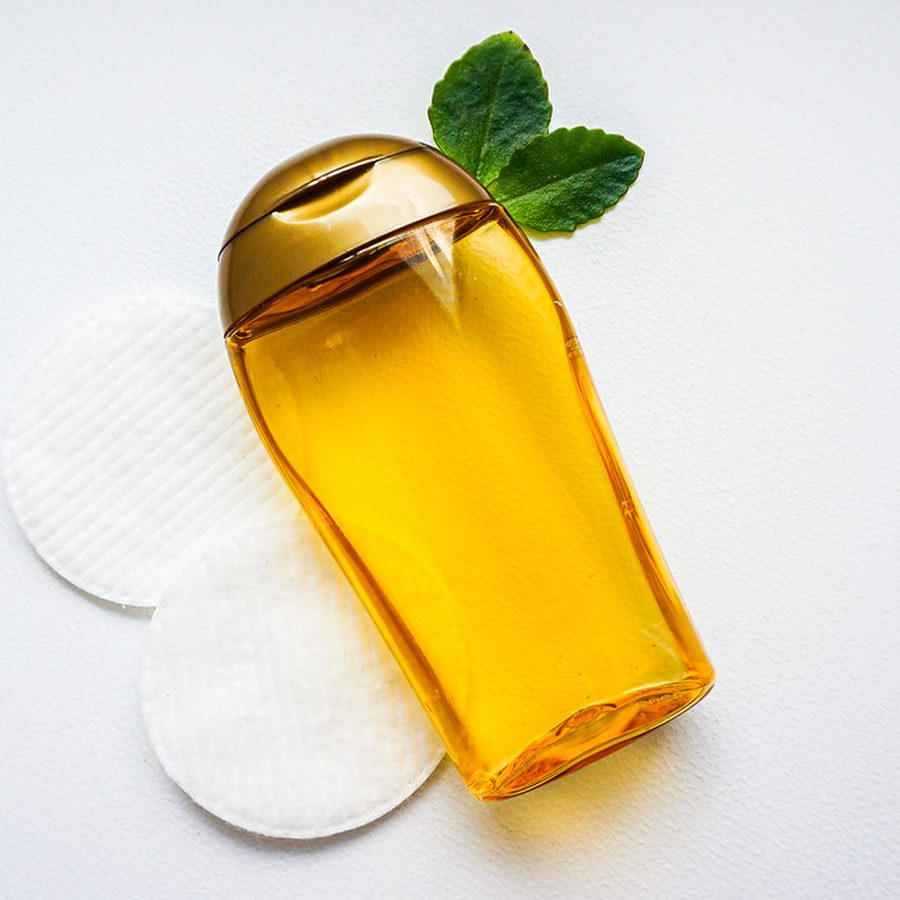
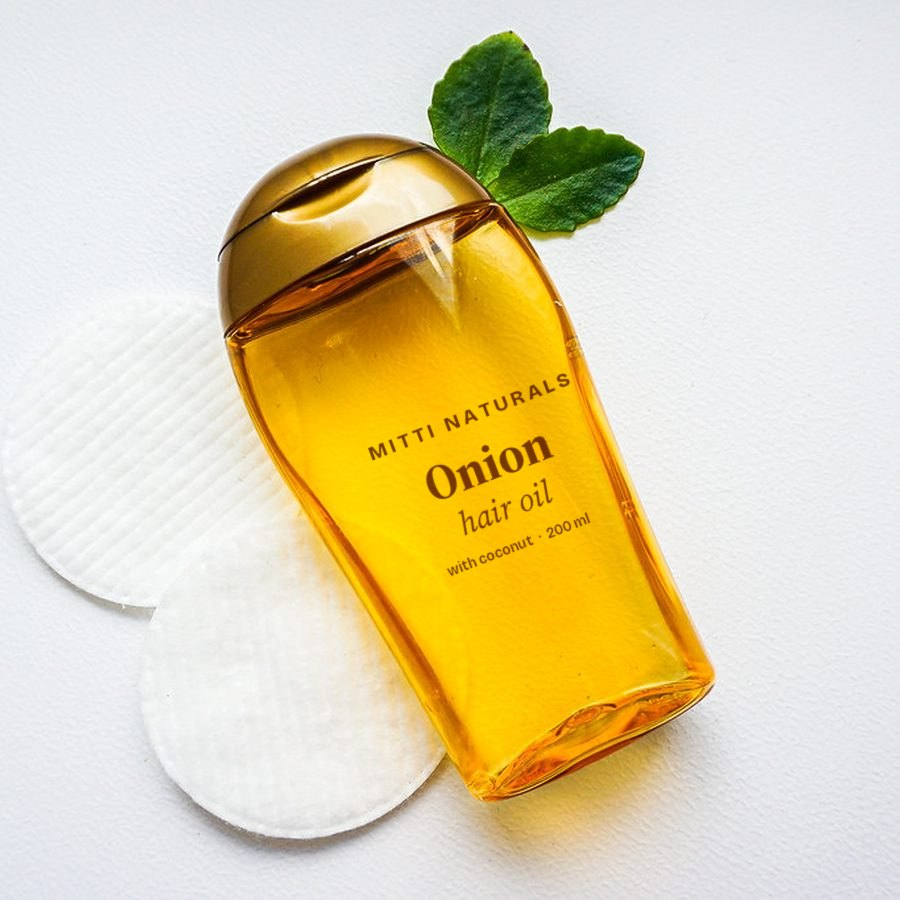
Photos: owner-supplied images for 10 products, fictional brand labels on plain packaging, credits
- scripts/import_manual_photos.py crops/resizes owner photos to the catalogue format
- scripts/brand_labels.py prints each product's fictional brand on plain packaging (originals kept)
- IMAGE_CREDITS marks AI-generated, Pexels and edited photos; 107/110 products now have photos

diff --git a/scripts/brand_labels.py b/scripts/brand_labels.py
@@ -1,0 +1,181 @@
+"""Print the store's fictional brand names onto plain product packaging in the photos.
+
+Some product photos show blank tubes, bottles or devices. This script adds a label in the
+product's own (invented) brand and name so the photo matches its listing. The unedited photo
+is kept in media/products/originals/<slug>.jpg and every run starts from that original, so the
+script is safe to run again. Ink is blended with the photo's own shading so it reads as print.
+
+Run from the project root:  .venv\\Scripts\\python.exe scripts\\brand_labels.py
+Every result must be checked by eye afterwards.
+"""
+
+import shutil
+from pathlib import Path
+
+import numpy as np
+from PIL import Image, ImageDraw, ImageFilter, ImageFont
+
+ROOT = Path(__file__).resolve().parent.parent
+PRODUCTS = ROOT / "media" / "products"
+ORIGINALS = PRODUCTS / "originals"
+DISPLAY = ROOT / "static" / "fonts" / "bricolage-grotesque-latin-standard-normal.woff2"
+SERIF = ROOT / "static" / "fonts" / "source-serif-4-latin-opsz-normal.woff2"
+SERIF_ITALIC = ROOT / "static" / "fonts" / "source-serif-4-latin-opsz-italic.woff2"
+
+
+def font(kind: str, size: int, weight: int = 700, width: int = 100) -> ImageFont.FreeTypeFont:
+    """Load one of the store's variable fonts at a given weight (and width for Bricolage)."""
+    if kind == "display":
+        f = ImageFont.truetype(str(DISPLAY), size)
+        f.set_variation_by_axes([min(max(size, 12), 96), weight, width])  # opsz, wght, wdth
+    else:
+        f = ImageFont.truetype(str(SERIF_ITALIC if kind == "italic" else SERIF), size)
+        axes = f.get_variation_axes()
+        values = []
+        for axis in axes:
+            name = axis["name"].decode() if isinstance(axis["name"], bytes) else axis["name"]
+            values.append(min(max(size, axis["minimum"]), axis["maximum"]) if "ptical" in name else weight)
+        f.set_variation_by_axes(values)
+    return f
+
+
+def draw_line(layer: Image.Image, text: str, fnt, centre: tuple[int, int], colour, tracking: float = 0.0) -> None:
+    """Draw one centred line of text with optional letter spacing (in em)."""
+    draw = ImageDraw.Draw(layer)
+    extra = tracking * fnt.size
+    widths = [draw.textlength(ch, font=fnt) for ch in text]
+    total = sum(widths) + extra * (len(text) - 1)
+    x = centre[0] - total / 2
+    for ch, w in zip(text, widths):
+        draw.text((x, centre[1]), ch, font=fnt, fill=colour, anchor="lm")
+        x += w + extra
+
+
+def apply_label(base: Image.Image, spec: dict) -> Image.Image:
+    """Render the spec's lines on a transparent layer, rotate/blur it, and blend into the photo."""
+    layer = Image.new("RGBA", base.size, (0, 0, 0, 0))
+    for line in spec["lines"]:
+        text, kind, size, weight, dy = line[:5]
+        opts = line[5] if len(line) > 5 else {}
+        fnt = font(kind, size, weight, opts.get("width", 100))
+        colour = opts.get("colour", spec["ink"])
+        draw_line(layer, text, fnt, (spec["at"][0], spec["at"][1] + dy), colour, opts.get("tracking", 0.0))
+    if spec.get("angle"):
+        layer = layer.rotate(spec["angle"], resample=Image.Resampling.BICUBIC, center=spec["at"])
+    layer = layer.filter(ImageFilter.GaussianBlur(spec.get("blur", 0.45)))
+
+    photo = np.asarray(base, dtype=np.float32) / 255.0
+    paint = np.asarray(layer, dtype=np.float32) / 255.0
+    rgb, alpha = paint[..., :3], paint[..., 3:4] * spec.get("opacity", 0.92)
+    if spec.get("mode", "multiply") == "multiply":  # dark ink on a light surface
+        out = photo * (1 - alpha) + photo * rgb * alpha
+    else:  # light ink on a dark surface: follow the surface's own light and shade
+        shade = 0.55 + 0.9 * photo.mean(axis=2, keepdims=True)
+        out = photo * (1 - alpha) + np.clip(rgb * shade, 0, 1) * alpha
+    return Image.fromarray(np.clip(out * 255 + 0.5, 0, 255).astype(np.uint8))
+
+
+# slug -> label spec. "at" = centre of the label (900 px image), dy = line offset from that centre.
+LABELS = {
+    "neem-ash-neem-and-tea-tree-face-wash": {
+        "at": (452, 420), "ink": (38, 78, 52), "lines": [
+            ("NEEM & ASH", "display", 30, 760, -70, {"tracking": 0.14, "width": 100}),
+            ("Neem and", "serif", 40, 600, -10),
+            ("Tea Tree", "serif", 40, 600, 34),
+            ("face wash", "italic", 30, 400, 86, {"colour": (70, 100, 78)}),
+            ("for oily, acne-prone skin  ·  100 ml", "display", 14, 450, 136, {"colour": (90, 110, 96)}),
+        ]},
+    "dewlab-spf-50-sunscreen-gel": {
+        "at": (432, 400), "ink": (32, 30, 40), "lines": [
+            ("dewlab", "display", 46, 780, -86, {"width": 100}),
+            ("SPF 50", "display", 64, 800, -12, {"width": 75, "colour": (214, 104, 74)}),
+            ("PA++++", "display", 22, 600, 40, {"tracking": 0.12, "colour": (214, 104, 74)}),
+            ("Sunscreen gel", "serif", 26, 500, 88),
+            ("broad spectrum  ·  no white cast  ·  50 g", "display", 13, 450, 128, {"colour": (95, 90, 100)}),
+        ]},
+    "dewlab-10-vitamin-c-face-serum": {
+        "at": (460, 565), "ink": (45, 35, 30), "blur": 0.6, "lines": [
+            ("dewlab", "display", 30, 780, -48),
+            ("Vitamin C 10%", "display", 19, 650, -8, {"colour": (176, 92, 40)}),
+            ("face serum", "italic", 18, 400, 22),
+            ("30 ml", "display", 12, 500, 52, {"colour": (90, 80, 70)}),
+        ]},
+    "mitti-naturals-sulphate-free-shampoo": {
+        "at": (418, 500), "ink": (250, 250, 244), "mode": "light", "blur": 1.4, "opacity": 0.97, "lines": [
+            ("MITTI", "display", 92, 800, -96, {"tracking": 0.06, "width": 80}),
+            ("NATURALS", "display", 34, 700, -26, {"tracking": 0.3}),
+            ("sulphate-free", "serif", 42, 600, 44),
+            ("shampoo", "serif", 42, 600, 92),
+            ("250 ml", "display", 20, 600, 150, {"tracking": 0.1}),
+        ]},
+    "mitti-naturals-onion-hair-oil": {
+        "at": (490, 470), "ink": (96, 40, 14), "angle": 21, "opacity": 0.86, "lines": [
+            ("MITTI NATURALS", "display", 20, 700, -58, {"tracking": 0.2}),
+            ("Onion", "serif", 50, 700, -8),
+            ("hair oil", "italic", 32, 400, 40),
+            ("with coconut  ·  200 ml", "display", 14, 500, 80),
+        ]},
+    "kesari-botanicals-kumkumadi-face-oil": {
+        "at": (600, 610), "ink": (104, 24, 20), "blur": 0.6, "opacity": 0.9, "lines": [
+            ("KESARI", "display", 28, 800, -36, {"tracking": 0.22}),
+            ("Kumkumadi", "serif", 32, 600, 4),
+            ("face oil  ·  15 ml", "display", 14, 500, 38),
+        ]},
+    "ferrow-snap-24-mirrorless-camera": {
+        "at": (548, 268), "ink": (214, 214, 210), "mode": "light", "blur": 0.5, "opacity": 0.88, "lines": [
+            ("FERROW", "display", 24, 700, 0, {"tracking": 0.28, "width": 100}),
+        ]},
+    "steelwell-ro-uv-water-purifier": {
+        "at": (262, 560), "ink": (40, 46, 60), "blur": 0.55, "lines": [
+            ("steelwell", "display", 36, 760, -18),
+            ("RO + UV purifier", "display", 15, 500, 18, {"tracking": 0.06, "colour": (90, 96, 110)}),
+        ]},
+    "hearthline-indoor-security-camera-2k": {
+        "at": (446, 700), "ink": (92, 92, 96), "blur": 0.6, "lines": [
+            ("hearthline", "display", 22, 650, 0, {"tracking": 0.04}),
+        ]},
+    "groomwell-cordless-beard-trimmer": {
+        "at": (432, 650), "ink": (200, 178, 156), "mode": "light", "angle": 90, "blur": 0.5, "opacity": 0.85, "lines": [
+            ("GROOMWELL", "display", 20, 700, 0, {"tracking": 0.26}),
+        ]},
+    "lumora-55-inch-qled-smart-tv": {
+        "at": (450, 0), "ink": (170, 170, 176), "mode": "light", "blur": 0.4, "opacity": 0.9, "lines": [
+            ("LUMORA", "display", 11, 700, 0, {"tracking": 0.3}),
+        ]},
+}
+
+
+def tv_bezel_y(image: Image.Image, x: int = 450) -> int:
+    """Find the middle of the TV's bottom bezel (the darkest short run of rows below the screen)."""
+    column = np.asarray(image.convert("L"), dtype=np.float32)[560:760, x - 60:x + 60].mean(axis=1)
+    dark = np.where(column < 70)[0]
+    if not len(dark):
+        return 698
+    runs, start = [], dark[0]
+    for a, b in zip(dark, dark[1:]):
+        if b != a + 1:
+            runs.append((start, a)); start = b
+    runs.append((start, dark[-1]))
+    lo, hi = runs[-1]
+    return 560 + (lo + hi) // 2
+
+
+def main() -> None:
+    ORIGINALS.mkdir(parents=True, exist_ok=True)
+    for slug, spec in LABELS.items():
+        target = PRODUCTS / f"{slug}.jpg"
+        original = ORIGINALS / f"{slug}.jpg"
+        if not original.exists():
+            if not target.exists():
+                print(f"missing photo: {slug}")
+                continue
+            shutil.copy2(target, original)
+        base = Image.open(original).convert("RGB")
+        if slug.startswith("lumora"):
+            spec = {**spec, "at": (450, tv_bezel_y(base))}
+        apply_label(base, spec).save(target, "JPEG", quality=86, optimize=True, progressive=True)
+        print(f"labelled {slug}")
+
+
+if __name__ == "__main__":
+    main()

diff --git a/scripts/import_manual_photos.py b/scripts/import_manual_photos.py
@@ -1,0 +1,46 @@
+"""Copy hand-picked product photos from media/manual_photos/ into the catalogue.
+
+Each photo is centre-cropped to a square and resized to 900 px JPEG, exactly like the
+other product images, and saved as media/products/<product-slug>.jpg.
+Run from the project root:  .venv\\Scripts\\python.exe scripts\\import_manual_photos.py
+Then run `python manage.py seed_demo` so the products point at the new files.
+"""
+
+from pathlib import Path
+
+from PIL import Image, ImageOps
+
+ROOT = Path(__file__).resolve().parent.parent
+SOURCE = ROOT / "media" / "manual_photos"
+TARGET = ROOT / "media" / "products"
+
+# file in media/manual_photos  ->  (product slug, horizontal crop centre 0..1)
+PHOTOS = {
+    "Dewy White Skincare Tube with Green Leaves.png": ("neem-ash-neem-and-tea-tree-face-wash", 0.5),
+    "Minimalist Coral-Capped Lotion Tube.png": ("dewlab-spf-50-sunscreen-gel", 0.5),
+    "Matte Black Mirrorless Camera.png": ("ferrow-snap-24-mirrorless-camera", 0.5),
+    "Modern TV with Gradient Wave Display.png": ("lumora-55-inch-qled-smart-tv", 0.5),
+    "Modern Wall-Mounted Water Purifier.png": ("steelwell-ro-uv-water-purifier", 0.5),
+    "Modern White Security Camera on Wooden Shelf.png": ("hearthline-indoor-security-camera-2k", 0.5),
+    "Polished Wooden Ludo Board and Dice.png": ("gameshala-ludo-and-snakes-and-ladders-2-in-1", 0.5),
+    "Sleek Charcoal Beard Trimmer Set.png": ("groomwell-cordless-beard-trimmer", 0.5),
+    "Sleek Smartphone with Screen Protector.png": ("shieldguard-tempered-glass-screen-protector-for-nova", 0.5),
+    "pexels-kindelmedia-9029794.jpg": ("tinkerbox-solar-robot-science-kit", 0.5),
+}
+
+
+def main() -> None:
+    TARGET.mkdir(parents=True, exist_ok=True)
+    for filename, (slug, centre_x) in PHOTOS.items():
+        source = SOURCE / filename
+        if not source.exists():
+            print(f"missing: {filename}")
+            continue
+        image = ImageOps.exif_transpose(Image.open(source)).convert("RGB")
+        image = ImageOps.fit(image, (900, 900), Image.Resampling.LANCZOS, centering=(centre_x, 0.5))
+        image.save(TARGET / f"{slug}.jpg", "JPEG", quality=84, optimize=True, progressive=True)
+        print(f"saved {slug}.jpg")
+
+
+if __name__ == "__main__":
+    main()

diff --git a/docs/IMAGE_CREDITS.md b/docs/IMAGE_CREDITS.md
@@ -2,7 +2,12 @@
 
 Product photos are openly licensed images from [Openverse](https://openverse.org), [Wikimedia Commons](https://commons.wikimedia.org) and [Pexels](https://www.pexels.com), downloaded once into `media/products/`.
 Each photo was cropped to a square and resized to 900 px. The products pictured stand in for the fictional brands sold in this demo store; photos were chosen to avoid visible real brand logos, and any small marks that remain belong to their owners.
+Nine photos were AI-generated and supplied by the project owner, and one comes from Pexels (Kindel Media, Pexels License); these are marked in the table.
 Products without a suitable photo use the store's placeholder (`static/img/product-placeholder.svg`).
+
+**Edits.** Eleven photos show plain packaging or unbranded devices, so `scripts/brand_labels.py` printed the product's own fictional brand and name on them
+(for example "dewlab SPF 50" on the sunscreen tube). The unedited files are kept in `media/products/originals/`. One router photo had the maker's name removed.
+All edited photos are marked "edited" below. Manual photos are imported with `scripts/import_manual_photos.py`.
 
 | Category | Product (demo listing) | Photo | Creator | Licence |
 |---|---|---|---|---|
@@ -10,12 +15,12 @@ Products without a suitable photo use the store's placeholder (`static/img/produ
 | Electronics | Sonvale Field 700 Over-Ear Headphones | [Close-up image of a pair of over-ear headphones with red accents and a](https://wordpress.org/photos/photo/18766603c1/) | Nilo Velez | [CC0 1.0](https://creativecommons.org/publicdomain/zero/1.0/) |
 | Electronics | Sonvale Pocket Bluetooth Speaker | [A portable Bluetooth speaker with great bass? Yep! The ARCHEER A320. M](https://www.flickr.com/photos/22473198@N00/33573968431) | HighTechDad | [CC BY 2.0](https://creativecommons.org/licenses/by/2.0/) |
 | Electronics | Lumora 43-inch 4K Smart TV | [The living room will be televised](https://www.flickr.com/photos/58435577@N00/159762082) | diametrik | [CC BY 2.0](https://creativecommons.org/licenses/by/2.0/) |
-| Electronics | Lumora 55-inch QLED Smart TV | placeholder | — | — |
+| Electronics | Lumora 55-inch QLED Smart TV | AI-generated image supplied by the project owner (Krishna) (edited: fictional brand label added) | Krishna (project owner), AI-generated | Owner-supplied, AI-generated; free to use in this project |
 | Electronics | Voltrek 20000 mAh Power Bank | [Infinite Power!....Problem?](https://www.flickr.com/photos/52365139@N05/14627546992) | dvanzuijlekom | [CC BY-SA 2.0](https://creativecommons.org/licenses/by-sa/2.0/) |
-| Electronics | Ferrow Snap 24 Mirrorless Camera | placeholder | — | — |
+| Electronics | Ferrow Snap 24 Mirrorless Camera | AI-generated image supplied by the project owner (Krishna) (edited: fictional brand label added) | Krishna (project owner), AI-generated | Owner-supplied, AI-generated; free to use in this project |
 | Electronics | Ferrow Trail Action Camera | [black action camera white laptop](https://www.rawpixel.com/image/3303210/free-photo-image-video-camera-macbook-gopro) | Unknown | [CC0 1.0](https://creativecommons.org/publicdomain/zero/1.0/) |
 | Electronics | Hearthline Smart Plug, Pack of 2 | [Smart plug adapter front view with power button.jpg](https://commons.wikimedia.org/wiki/File:Smart_plug_adapter_front_view_with_power_button.jpg) | Sokolikmawwer0 | [CC BY-SA 3.0](https://creativecommons.org/licenses/by-sa/3.0) |
-| Electronics | Hearthline Indoor Security Camera 2K | placeholder | — | — |
+| Electronics | Hearthline Indoor Security Camera 2K | AI-generated image supplied by the project owner (Krishna) (edited: fictional brand label added) | Krishna (project owner), AI-generated | Owner-supplied, AI-generated; free to use in this project |
 | Electronics | Sonvale Soundbar 2.1 with Subwoofer | placeholder | — | — |
 | Fashion and Clothing | Indigo Loom Men's Slim-Fit Oxford Shirt | [Camisade puño doble.jpg](https://commons.wikimedia.org/wiki/File:Camisade_pu%C3%B1o_doble.jpg) | Incal | [CC BY-SA 3.0](https://creativecommons.org/licenses/by-sa/3.0) |
 | Fashion and Clothing | Indigo Loom Women's Block-Print Straight Kurta | [Traditional white embroidered kurta](https://www.rawpixel.com/image/9004113/coat) | artinstitutechicago | [CC0 1.0](https://creativecommons.org/publicdomain/zero/1.0/) |
@@ -50,16 +55,16 @@ Products without a suitable photo use the store's placeholder (`static/img/produ
 | Books and Stationery | Scribe Supply Watercolour Set, 24 Colours | [36 Pan Palette White Nights Russian Watercolour Paint Set](https://www.flickr.com/photos/53499099@N00/32522989847) | CharmaineZoe's Marvelous Melange | [CC BY 2.0](https://creativecommons.org/licenses/by/2.0/) |
 | Books and Stationery | Scribe Supply Bamboo Desk Organiser | [Wooden desk organizer, pencil holder #2](https://www.flickr.com/photos/47257185@N03/30229628306) | ZERGE_VIOLATOR | [CC BY 2.0](https://creativecommons.org/licenses/by/2.0/) |
 | Books and Stationery | Margin Books Tara and the Tiger Moth (Picture Book) | [***](https://www.flickr.com/photos/30845197@N00/53846192367) | RG TLV | [CC BY 2.0](https://creativecommons.org/licenses/by/2.0/) |
-| Beauty and Personal Care | Neem & Ash Neem and Tea Tree Face Wash | placeholder | — | — |
-| Beauty and Personal Care | Dewlab 10% Vitamin C Face Serum | [Dropper bottle, blank retro label](https://www.rawpixel.com/image/11515770/dropper-bottle-blank-retro-label) | Unknown | [CC0 1.0](https://creativecommons.org/publicdomain/zero/1.0/) |
-| Beauty and Personal Care | Dewlab SPF 50 Sunscreen Gel | placeholder | — | — |
-| Beauty and Personal Care | Kesari Botanicals Kumkumadi Face Oil | [Free essential oil image. Cosmetic](https://www.rawpixel.com/image/5910591/photo-image-flower-public-domain-free) | Unknown | [CC0 1.0](https://creativecommons.org/publicdomain/zero/1.0/) |
-| Beauty and Personal Care | Mitti Naturals Onion Hair Oil | [Haare Öl - Hair oil](https://www.flickr.com/photos/194961536@N05/52303062503) | Relax Photos | [CC BY 2.0](https://creativecommons.org/licenses/by/2.0/) |
-| Beauty and Personal Care | Mitti Naturals Sulphate-Free Shampoo | [Green shampoo bottle.jpg](https://commons.wikimedia.org/wiki/File:Green_shampoo_bottle.jpg) | Mezoneni | [CC BY-SA 4.0](https://creativecommons.org/licenses/by-sa/4.0) |
+| Beauty and Personal Care | Neem & Ash Neem and Tea Tree Face Wash | AI-generated image supplied by the project owner (Krishna) (edited: fictional brand label added) | Krishna (project owner), AI-generated | Owner-supplied, AI-generated; free to use in this project |
+| Beauty and Personal Care | Dewlab 10% Vitamin C Face Serum | [Dropper bottle, blank retro label](https://www.rawpixel.com/image/11515770/dropper-bottle-blank-retro-label) (edited: fictional brand label added) | Unknown | [CC0 1.0](https://creativecommons.org/publicdomain/zero/1.0/) |
+| Beauty and Personal Care | Dewlab SPF 50 Sunscreen Gel | AI-generated image supplied by the project owner (Krishna) (edited: fictional brand label added) | Krishna (project owner), AI-generated | Owner-supplied, AI-generated; free to use in this project |
+| Beauty and Personal Care | Kesari Botanicals Kumkumadi Face Oil | [Free essential oil image. Cosmetic](https://www.rawpixel.com/image/5910591/photo-image-flower-public-domain-free) (edited: fictional brand label added) | Unknown | [CC0 1.0](https://creativecommons.org/publicdomain/zero/1.0/) |
+| Beauty and Personal Care | Mitti Naturals Onion Hair Oil | [Haare Öl - Hair oil](https://www.flickr.com/photos/194961536@N05/52303062503) (edited: fictional brand label added) | Relax Photos | [CC BY 2.0](https://creativecommons.org/licenses/by/2.0/) |
+| Beauty and Personal Care | Mitti Naturals Sulphate-Free Shampoo | [Green shampoo bottle.jpg](https://commons.wikimedia.org/wiki/File:Green_shampoo_bottle.jpg) (edited: fictional brand label added) | Mezoneni | [CC BY-SA 4.0](https://creativecommons.org/licenses/by-sa/4.0) |
 | Beauty and Personal Care | Neem & Ash Activated Charcoal Soap, Pack of 4 | [Natural Soap Bars (46363900951).jpg](https://commons.wikimedia.org/wiki/File:Natural_Soap_Bars_(46363900951).jpg) | Tony Webster from Minneapolis, Minnesota, United States | [CC BY 2.0](https://creativecommons.org/licenses/by/2.0) |
 | Beauty and Personal Care | Dewlab Hyaluronic Gel Moisturiser | [Lipneye Loose Powder_02](https://www.flickr.com/photos/22740419@N03/2297973764) | hello_bonnie | [CC BY 2.0](https://creativecommons.org/licenses/by/2.0/) |
 | Beauty and Personal Care | Kesari Botanicals Long-Stay Matte Lipstick | [18 / 365 - On the Mauve](https://www.flickr.com/photos/47149893@N07/6031622829) | Kelly Hunter | [CC BY 2.0](https://creativecommons.org/licenses/by/2.0/) |
-| Beauty and Personal Care | Groomwell Cordless Beard Trimmer | [Free electric shaver image](https://www.rawpixel.com/image/5902320/photo-image-background-public-domain-free) | Unknown | [CC0 1.0](https://creativecommons.org/publicdomain/zero/1.0/) |
+| Beauty and Personal Care | Groomwell Cordless Beard Trimmer | AI-generated image supplied by the project owner (Krishna) (edited: fictional brand label added) | Krishna (project owner), AI-generated | Owner-supplied, AI-generated; free to use in this project |
 | Beauty and Personal Care | Groomwell Ionic Hair Dryer 1600 W | [Woman Hair](https://stocksnap.io/photo/woman-hair-D5CG6JAYN3) | Healthy Living | [CC0 1.0](https://creativecommons.org/publicdomain/zero/1.0/) |
 | Sports and Fitness | Cricrest English Willow Cricket Bat | [Cricket Bat at Rest](https://www.flickr.com/photos/14040488@N02/4828759245) | A. Blight | [CC BY 2.0](https://creativecommons.org/licenses/by/2.0/) |
 | Sports and Fitness | Cricrest Leather Cricket Ball, Pack of 2 | [Cricket Ball.](https://www.flickr.com/photos/30880820@N07/4398962599) | Luke Hayfield Photography | [CC BY 2.0](https://creativecommons.org/licenses/by/2.0/) |
@@ -77,7 +82,7 @@ Products without a suitable photo use the store's placeholder (`static/img/produ
 | Mobile Phones and Accessories | Orvia Lite 4G, 4 GB / 64 GB | [Office Work](https://stocksnap.io/photo/office-work-QK8UF7C718) | Negative Space | [CC0 1.0](https://creativecommons.org/publicdomain/zero/1.0/) |
 | Mobile Phones and Accessories | Chargelink 33 W USB-C Fast Charger | [Silicon vs GaN 30W USB-C chargers.jpg](https://commons.wikimedia.org/wiki/File:Silicon_vs_GaN_30W_USB-C_chargers.jpg) | 4300streetcar | [CC BY 4.0](https://creativecommons.org/licenses/by/4.0) |
 | Mobile Phones and Accessories | Chargelink Braided USB-C Cable, 1.5 m | [USB cable wire close up](https://www.rawpixel.com/image/6040523/photo-image-white-background-public-domain-technology) | Unknown | [CC0 1.0](https://creativecommons.org/publicdomain/zero/1.0/) |
-| Mobile Phones and Accessories | ShieldGuard Tempered Glass Screen Protector for Nova | placeholder | — | — |
+| Mobile Phones and Accessories | ShieldGuard Tempered Glass Screen Protector for Nova | AI-generated image supplied by the project owner (Krishna) | Krishna (project owner), AI-generated | Owner-supplied, AI-generated; free to use in this project |
 | Mobile Phones and Accessories | ShieldGuard Rugged Case for Nova | [Black phone case drying](https://www.flickr.com/photos/196301716@N03/52749995363) | ospp0 | [CC0 1.0](https://creativecommons.org/publicdomain/zero/1.0/) |
 | Mobile Phones and Accessories | Chargelink 15 W Wireless Charging Pad | [LG WCP-300 Qi wireless charger.jpg](https://commons.wikimedia.org/wiki/File:LG_WCP-300_Qi_wireless_charger.jpg) | Dsimic | [CC BY-SA 3.0](https://creativecommons.org/licenses/by-sa/3.0) |
 | Mobile Phones and Accessories | Orvia Fit Smartwatch with Calling | [Suunto 9 Peak Sako 100](https://www.flickr.com/photos/194647935@N05/51771122575) | ozfir | [CC BY 2.0](https://creativecommons.org/licenses/by/2.0/) |
@@ -98,10 +103,10 @@ Derivative work: AGreuet (talk · contribs) | [Public domain](https://commons.w
 | Toys and Games | Brickyard City Fire Station Building Set, 720 Pieces | [Colorful Lego building blocks. Location](https://www.rawpixel.com/image/6113755/photo-image-public-domain-children-free) | Unknown | [CC0 1.0](https://creativecommons.org/publicdomain/zero/1.0/) |
 | Toys and Games | Brickyard Starter Bricks Bucket, 300 Pieces | [Lego blocks close up](https://www.rawpixel.com/image/5921627/photo-image-public-domain-kids-free) | Unknown | [CC0 1.0](https://creativecommons.org/publicdomain/zero/1.0/) |
 | Toys and Games | Gameshala Wooden Chess Set | [Chess Board](https://stocksnap.io/photo/chess-board-NUAITIXILP) | Kristin Hardwick | [CC0 1.0](https://creativecommons.org/publicdomain/zero/1.0/) |
-| Toys and Games | Gameshala Ludo and Snakes and Ladders, 2-in-1 | placeholder | — | — |
+| Toys and Games | Gameshala Ludo and Snakes and Ladders, 2-in-1 | AI-generated image supplied by the project owner (Krishna) | Krishna (project owner), AI-generated | Owner-supplied, AI-generated; free to use in this project |
 | Toys and Games | Gameshala Full-Size Carrom Board | [SAS_3928](https://www.flickr.com/photos/14642507@N08/53068686031) | sasastro | [CC BY 2.0](https://creativecommons.org/licenses/by/2.0/) |
 | Toys and Games | Tinkerbox Remote Control Racing Car | [RC BIT 1.JPG](https://commons.wikimedia.org/wiki/File:RC_BIT_1.JPG) | BITalino | [CC BY-SA 3.0](https://creativecommons.org/licenses/by-sa/3.0) |
-| Toys and Games | Tinkerbox Solar Robot Science Kit | placeholder | — | — |
+| Toys and Games | Tinkerbox Solar Robot Science Kit | [Robot kit parts on a wooden table](https://www.pexels.com/photo/9029794/) | Kindel Media (Pexels) | [Pexels License](https://www.pexels.com/license/) |
 | Toys and Games | Little Lantern Soft Teddy Bear, 40 cm | [Teddy bear early 1900s - Smithsonian Museum of Natural History.jpg](https://commons.wikimedia.org/wiki/File:Teddy_bear_early_1900s_-_Smithsonian_Museum_of_Natural_History.jpg) | Smithsonian Museum of Natural History | [CC BY-SA 2.0](https://creativecommons.org/licenses/by-sa/2.0) |
 | Toys and Games | Little Lantern Wooden Stacking Rings | [Baby Playing with Stacking Rings.JPG](https://commons.wikimedia.org/wiki/File:Baby_Playing_with_Stacking_Rings.JPG) | Barelyhere | [CC BY-SA 4.0](https://creativecommons.org/licenses/by-sa/4.0) |
 | Toys and Games | Gameshala 1000-Piece Jigsaw Puzzle, Spice Market | [Jigsaw puzzle](https://www.flickr.com/photos/192018235@N04/52612441739) | We Like Sharing | [CC BY 2.0](https://creativecommons.org/licenses/by/2.0/) |
@@ -115,5 +120,5 @@ Derivative work: AGreuet (talk · contribs) | [Public domain](https://commons.w
 | Kitchen and Home Appliances | Chakki Pro Table-Top Wet Grinder, 2 L | [Wet grinder - Commercial.jpg](https://commons.wikimedia.org/wiki/File:Wet_grinder_-_Commercial.jpg) | Ramesh NG | [CC BY-SA 2.0](https://creativecommons.org/licenses/by-sa/2.0) |
 | Kitchen and Home Appliances | Steelwell Induction Cooktop, 2000 W | [Induction cooktop](https://www.flickr.com/photos/154752783@N05/52185189352) | tjmills1520 | [CC BY-SA 2.0](https://creativecommons.org/licenses/by-sa/2.0/) |
 | Kitchen and Home Appliances | Tadka Home Solo Microwave Oven, 20 L | placeholder | — | — |
-| Kitchen and Home Appliances | Steelwell RO + UV Water Purifier | placeholder | — | — |
+| Kitchen and Home Appliances | Steelwell RO + UV Water Purifier | AI-generated image supplied by the project owner (Krishna) (edited: fictional brand label added) | Krishna (project owner), AI-generated | Owner-supplied, AI-generated; free to use in this project |
 | Kitchen and Home Appliances | Brewmate Hand Blender, 400 W | [NG-HB3.jpg](https://commons.wikimedia.org/wiki/File:NG-HB3.jpg) | A.dardiry | [CC BY-SA 4.0](https://creativecommons.org/licenses/by-sa/4.0) |

diff --git a/PROGRESS.md b/PROGRESS.md
@@ -39,10 +39,10 @@ Exact next steps:
 | 2026-11-07 | 2.6 Commands | create_default_admin (from .env, keeps existing password unless --reset-password), seed_demo (catalogue + 4 customers + 9 past orders/20 rows + 8 payments + 14 ratings + 11 reviews + 2 conversations + 31 interactions + 2 cart items; idempotent), reset_demo (flush shop DB only, confirm with RESET or --yes). Note: 2.6 completed while 2.5 image download is still running. |
 | 2026-11-07 | 2.5 Images | 98/110 real photos (Openverse, Wikimedia Commons; CC0/PDM/CC BY/CC BY-SA), each checked by eye for product match and real logos; square 900 px JPEGs in media/products/ (9.3 MB); wide shots padded, one router photo edited to remove the maker's name; credits in docs/IMAGE_CREDITS.md. 12 placeholders pending the owner's manual Pexels photos (Pexels has paused new API keys). |
 | 2026-11-07 | Gate 2 | migrate (both DBs), create_default_admin, seed_demo run cleanly and idempotently; shell counts 10 categories / 110 products / 4 customers / 9 orders; manage.py check clean; 7 unit tests pass. Motion posture widened per owner request (DESIGN_SYSTEM §7, DECISIONS). |
+| 2026-11-09 | 2.5 Photos + labels | 10 owner photos imported (9 AI-generated by Krishna, 1 Pexels/Kindel Media) via scripts/import_manual_photos.py; fictional brand labels printed on 11 plain-packaging photos via scripts/brand_labels.py (originals in media/products/originals/, every result checked by eye, 3 placements corrected); IMAGE_CREDITS.md updated; 107/110 products with photos, 3 placeholders. Motion posture already widened (DESIGN_SYSTEM §7). Gate 2 re-checked: check clean, 7 unit tests pass. |
 
 ## Pending owner actions / follow-ups
-- **Photo labels/credits:** `docs/IMAGE_CREDITS.md` lists every photo with creator + licence. One photo was edited (router: maker's name removed) and is labelled as edited there. When the manual Pexels photos arrive, their rows must be relabelled from "placeholder" to photographer + Pexels URL + "Pexels License". (If "label tasks" meant something else, tell Claude in the next session.)
-- **When Krishna says "photos added":** 12 products still use the placeholder (Pexels paused new API keys, so Krishna downloads them by hand). Expected files and names are listed in `media/manual_photos/README.md` (tv-55.jpg, mirrorless-camera.jpg, security-camera.jpg, soundbar.jpg, watch.jpg, face-wash.jpg, sunscreen.jpg, screen-protector.jpg, ludo.jpg, solar-robot-kit.jpg, microwave.jpg, water-purifier.jpg, plus credits.txt). Steps: (1) for each file, check product match + no real logos; (2) crop to square + resize to 900 px JPEG exactly like the others and save as `media/products/<product-slug>.jpg`; (3) replace the placeholder rows in `docs/IMAGE_CREDITS.md` with photographer + Pexels URL + "Pexels License"; (4) run `python manage.py seed_demo` so the products point at the new files; (5) screenshot-check the product cards; commit.
+- **3 placeholders left:** soundbar, watch, microwave. If Krishna adds soundbar.jpg / watch.jpg / microwave.jpg to `media/manual_photos/`, add them to `PHOTOS` in `scripts/import_manual_photos.py`, run it, add labels in `scripts/brand_labels.py` if the packaging is plain (check by eye), update `docs/IMAGE_CREDITS.md`, run `python manage.py seed_demo`.
 
 ## Blockers / questions for Krishna
 - (none)

diff --git a/docs/DECISIONS.md b/docs/DECISIONS.md
@@ -33,3 +33,11 @@ Short log of design and architecture choices (decision → reason). Newest at th
 - ~~Motion limited to a few exceptions to the theme's "state only" rule.~~ Superseded (owner feedback, 2026-11-07): see below.
 - **Motion widened to "tasteful, purposeful" (owner request, 2026-11-07).** Product-card hovers, quick view, add-to-cart button state + badge bump, toasts, skeleton loaders, subtle scroll reveals, smooth sponsored carousel, nav/dropdown transitions, Explainer animations, Lenis on storefront pages. → The owner wants good UI with tasteful motion, not a near-static page; the Editorial look (type, rules, palette) stays, only its motion posture changes. Limits: transform/opacity only, ≤ 600ms, no parallax/bounce/glow, full `prefers-reduced-motion` fallback, no reveals in admin.
 - **Django serves /media/ in all modes.** → Local-only demo (rule 10) and the test live server runs with DEBUG=False; a real deployment would put media behind a web server.
+
+## Images (Phase 2.5, revisited 2026-11-09)
+- **Owner-supplied photos for 10 products** (9 AI-generated by the owner, 1 from Pexels), imported with `scripts/import_manual_photos.py` and credited as such. → Openverse/Wikimedia had no clean, logo-free match; Pexels paused new API keys.
+- **Fictional brand labels printed onto plain packaging** (11 photos) with `scripts/brand_labels.py`; originals kept in `media/products/originals/`; each result checked by eye. → A blank tube labelled "Dewlab SPF 50" reads as the real listing and keeps the "fictional brands only" rule visible in the photos. Ink is multiplied into the photo's shading so it looks printed, not pasted.
+- **3 products keep the placeholder** (soundbar, watch, microwave) until better photos exist.
+
+## Typography in the UI (Phase 3)
+- **Bricolage Grotesque is the body/UI default; Source Serif 4 is used for reading text** (`.prose`, `.lead`, descriptions, reviews, messages). → A store is mostly controls, prices and short labels; Hallmark's app-screen rule allows the UI face there, while the serif keeps the editorial voice where people actually read.

diff --git a/media/manual_photos/README.md b/media/manual_photos/README.md
@@ -6,19 +6,14 @@ and their credits (photographer + Pexels page URL) added to `docs/IMAGE_CREDITS.
 Put the photographer name and the Pexels page URL for each file in `credits.txt` (one line per file:
 `file.jpg | Photographer Name | https://www.pexels.com/photo/...`).
 
+Status (2026-11-09): 10 photos imported. Still wanted:
+
 | File name | Product it replaces |
 |---|---|
-| tv-55.jpg | Lumora 55-inch QLED Smart TV |
-| mirrorless-camera.jpg | Ferrow Snap 24 Mirrorless Camera |
-| security-camera.jpg | Hearthline Indoor Security Camera 2K |
 | soundbar.jpg | Sonvale Soundbar 2.1 with Subwoofer |
 | watch.jpg | Thread & Thali Women's Minimalist Analog Watch |
-| face-wash.jpg | Neem & Ash Neem and Tea Tree Face Wash |
-| sunscreen.jpg | Dewlab SPF 50 Sunscreen Gel |
-| screen-protector.jpg | ShieldGuard Tempered Glass Screen Protector for Nova |
-| ludo.jpg | Gameshala Ludo and Snakes and Ladders, 2-in-1 |
-| solar-robot-kit.jpg | Tinkerbox Solar Robot Science Kit |
 | microwave.jpg | Tadka Home Solo Microwave Oven, 20 L |
-| water-purifier.jpg | Steelwell RO + UV Water Purifier |
+
+Add each new file to the `PHOTOS` map in `scripts/import_manual_photos.py`, run it, then `python manage.py seed_demo`.
 
 Pick photos without visible real brand logos.
